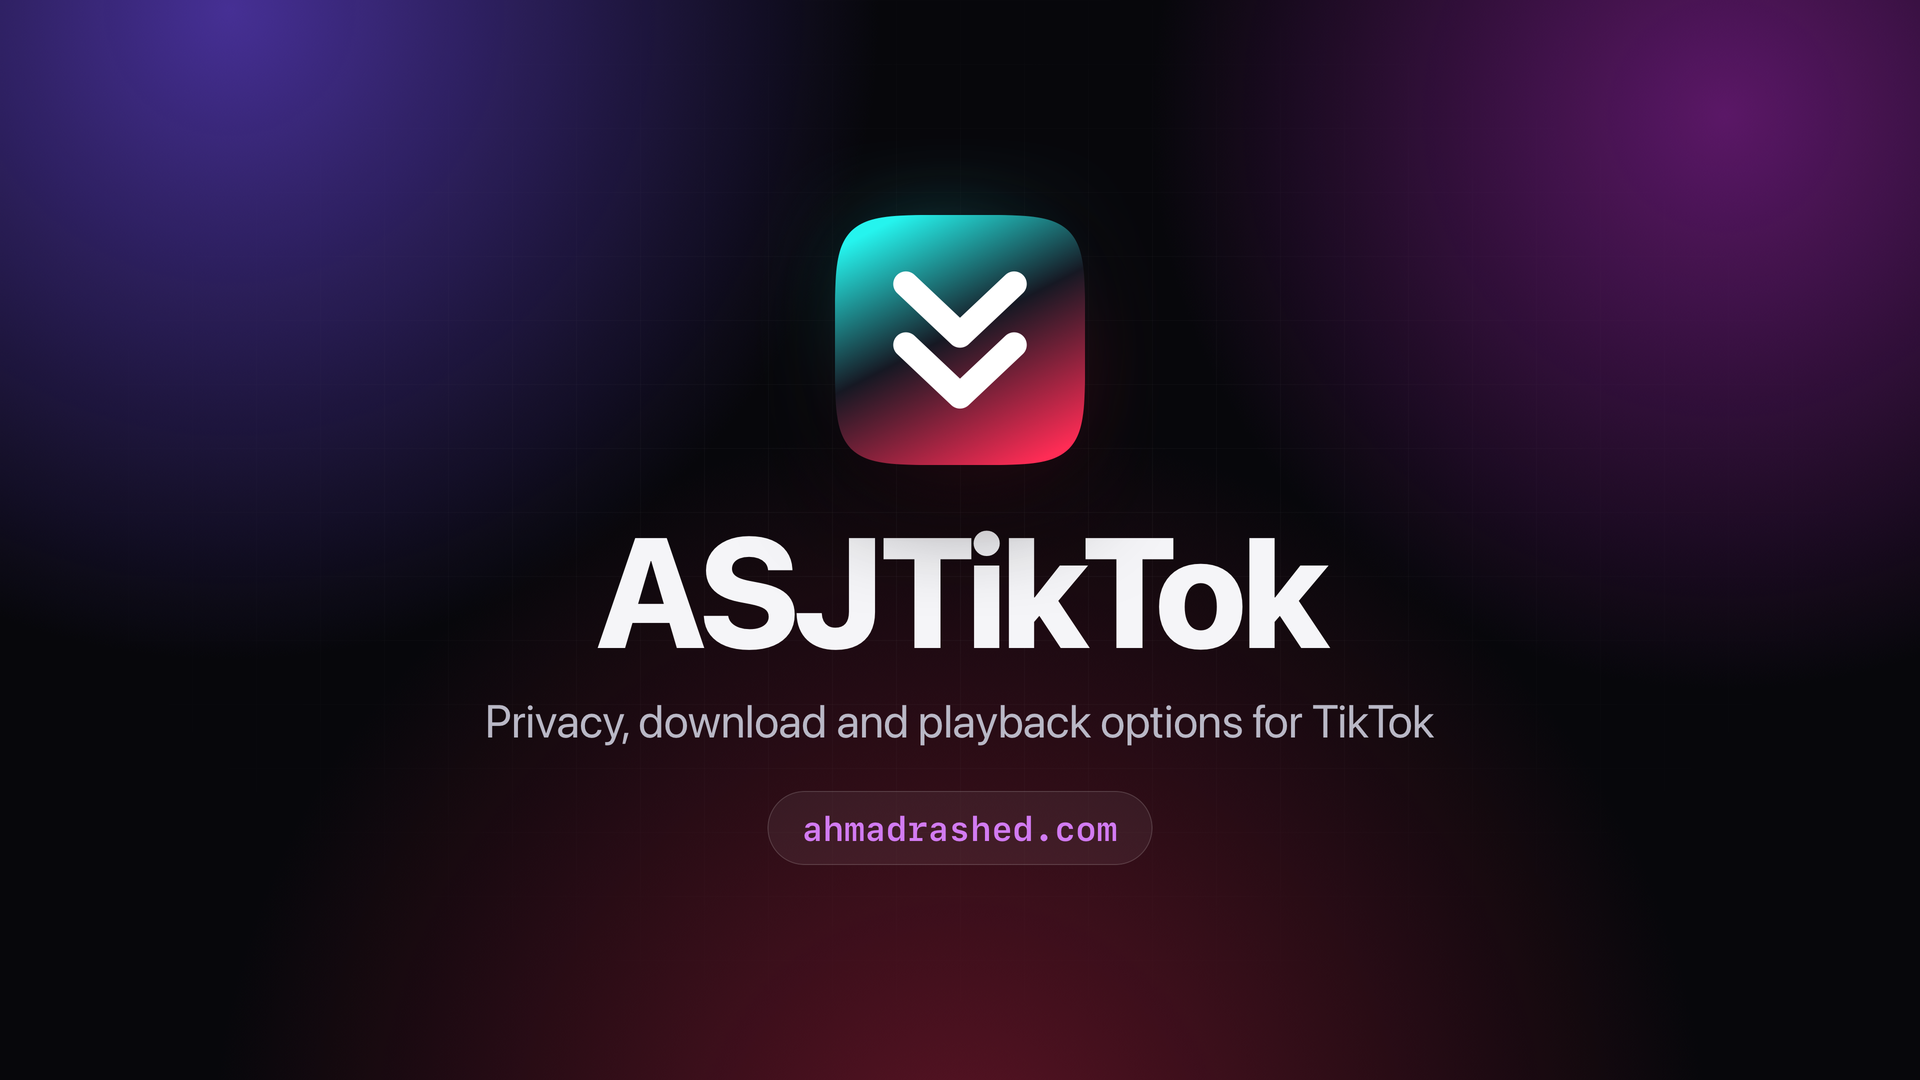
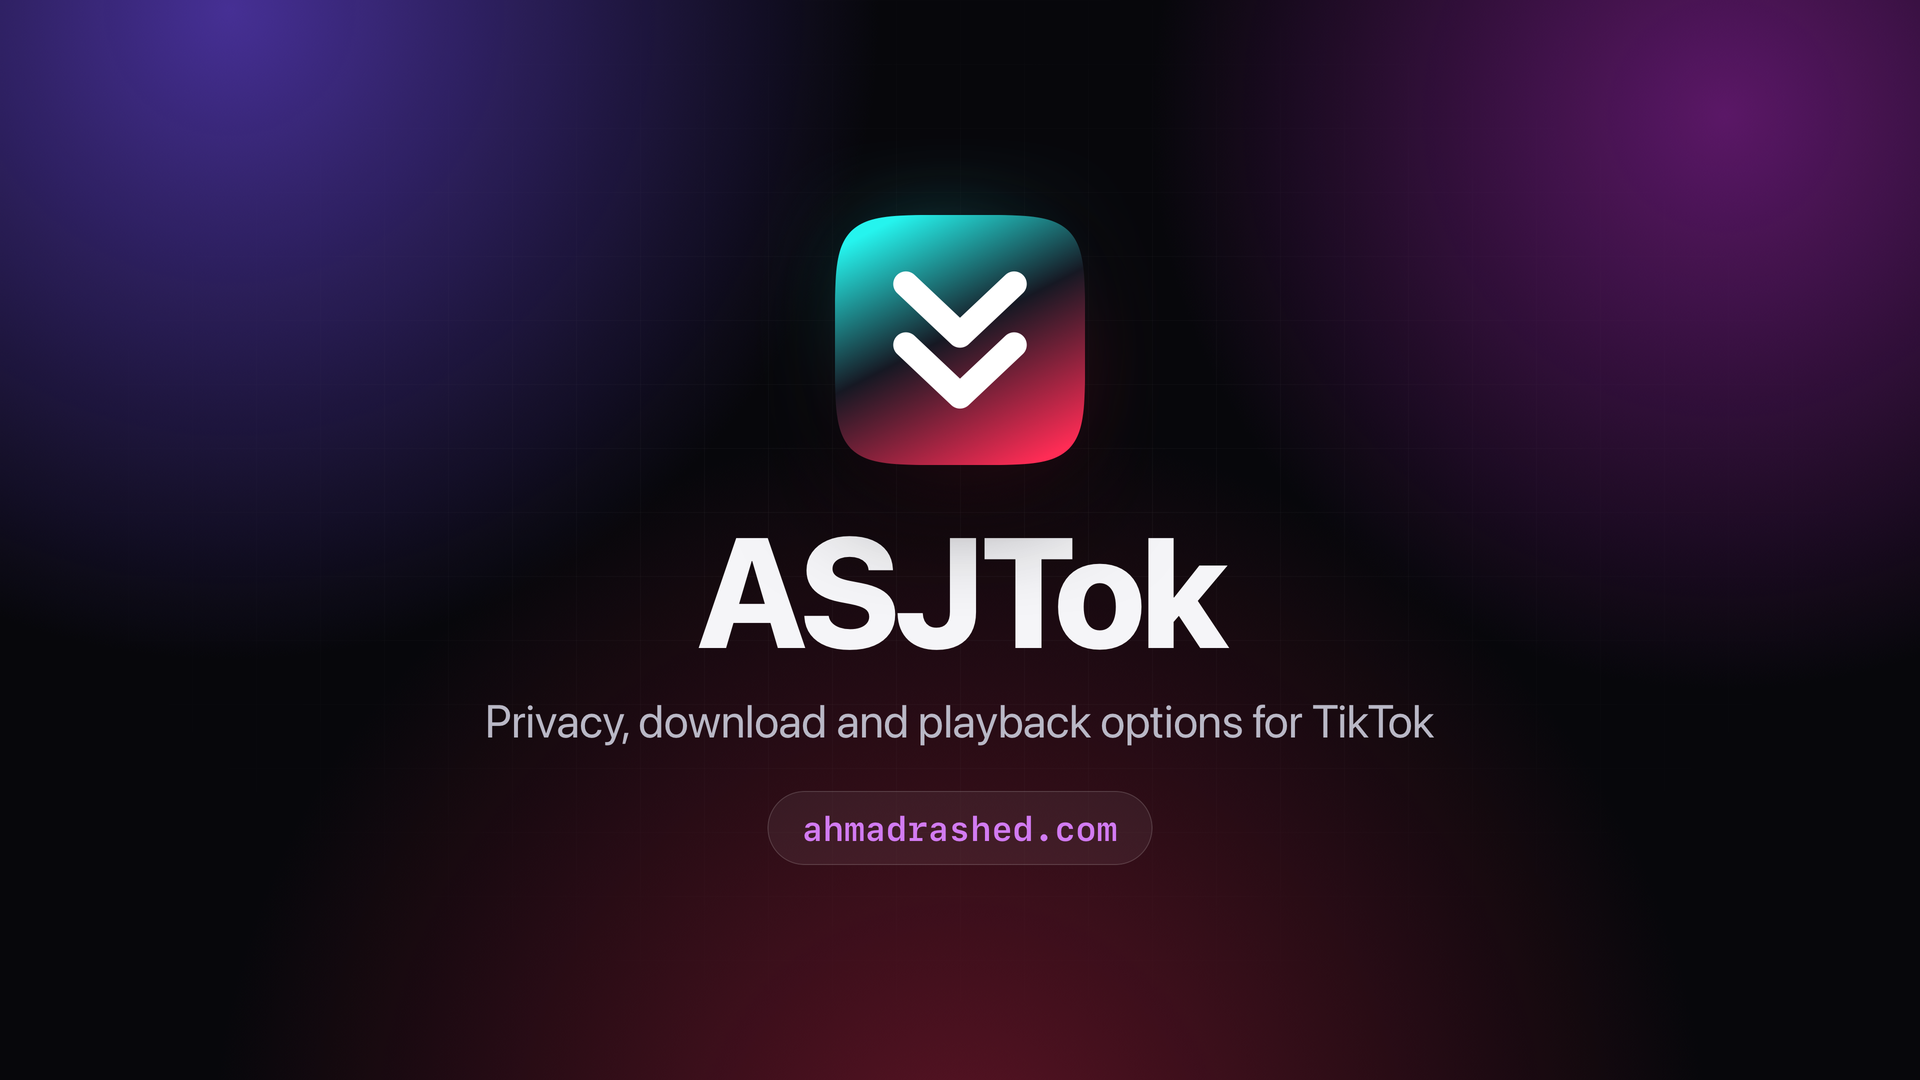
ASJTikTok is shown as ASJTok everywhere a source names it; the depiction's way-in sentence matches 1.2.1
- Packages (+ .gz, Release hashes): Name ASJTok / ASJTok (roothide). Package ids and versions are unchanged,
  so nobody is offered an update; the in-app strings follow with the next release.
- source.json, altstore.json: app names, GBox appName and the two descriptions say ASJTok (file URLs and ids
  keep ASJTikTok - they are file names and fixed keys).
- depictions/banner.png, asjtiktok.html: ASJTok.
- depictions/asjtiktok.json + .html: 'Open it from its own row in the profile menu, under ASJ tools. Its options
  are in the long-press menu too.' replaces the old 'Settings live in two places' sentence.

Changed region(s): [[0.3125, 0.4889, 0.6875, 0.6111]]

diff --git a/depictions/asjtiktok.html b/depictions/asjtiktok.html
@@ -1,7 +1,7 @@
 <!doctype html>
 <meta charset="utf-8">
 <meta name="viewport" content="width=device-width,initial-scale=1">
-<title>ASJTikTok</title>
+<title>ASJTok</title>
 <style>
   :root { color-scheme: light dark; }
   body { margin:0; font:16px/1.65 -apple-system,BlinkMacSystemFont,"Segoe UI",sans-serif;
@@ -22,12 +22,11 @@
   .note { color:#9a9aa2; font-size:.9rem; border-left:2px solid #2a2a32; padding-left:.9rem; }
 </style>
 <main>
-  <img class="banner" src="banner.png" alt="ASJTikTok">
-  <h1>ASJTikTok</h1>
+  <img class="banner" src="banner.png" alt="ASJTok">
+  <h1>ASJTok</h1>
   <p class="sub">Privacy, download and playback options for TikTok — without changing how the app looks.</p>
 
-  <p class="note">Settings live in two places: a button inside your profile menu, and a row inside
-  TikTok's own Settings.</p>
+  <p class="note">Open it from its own row in the profile menu, under ASJ tools. Its options are in the long-press menu too.</p>
 
   <div class="shots">
     <img src="../screenshots/entry.png" alt="The ASJTikTok button in your profile menu" loading="lazy">
